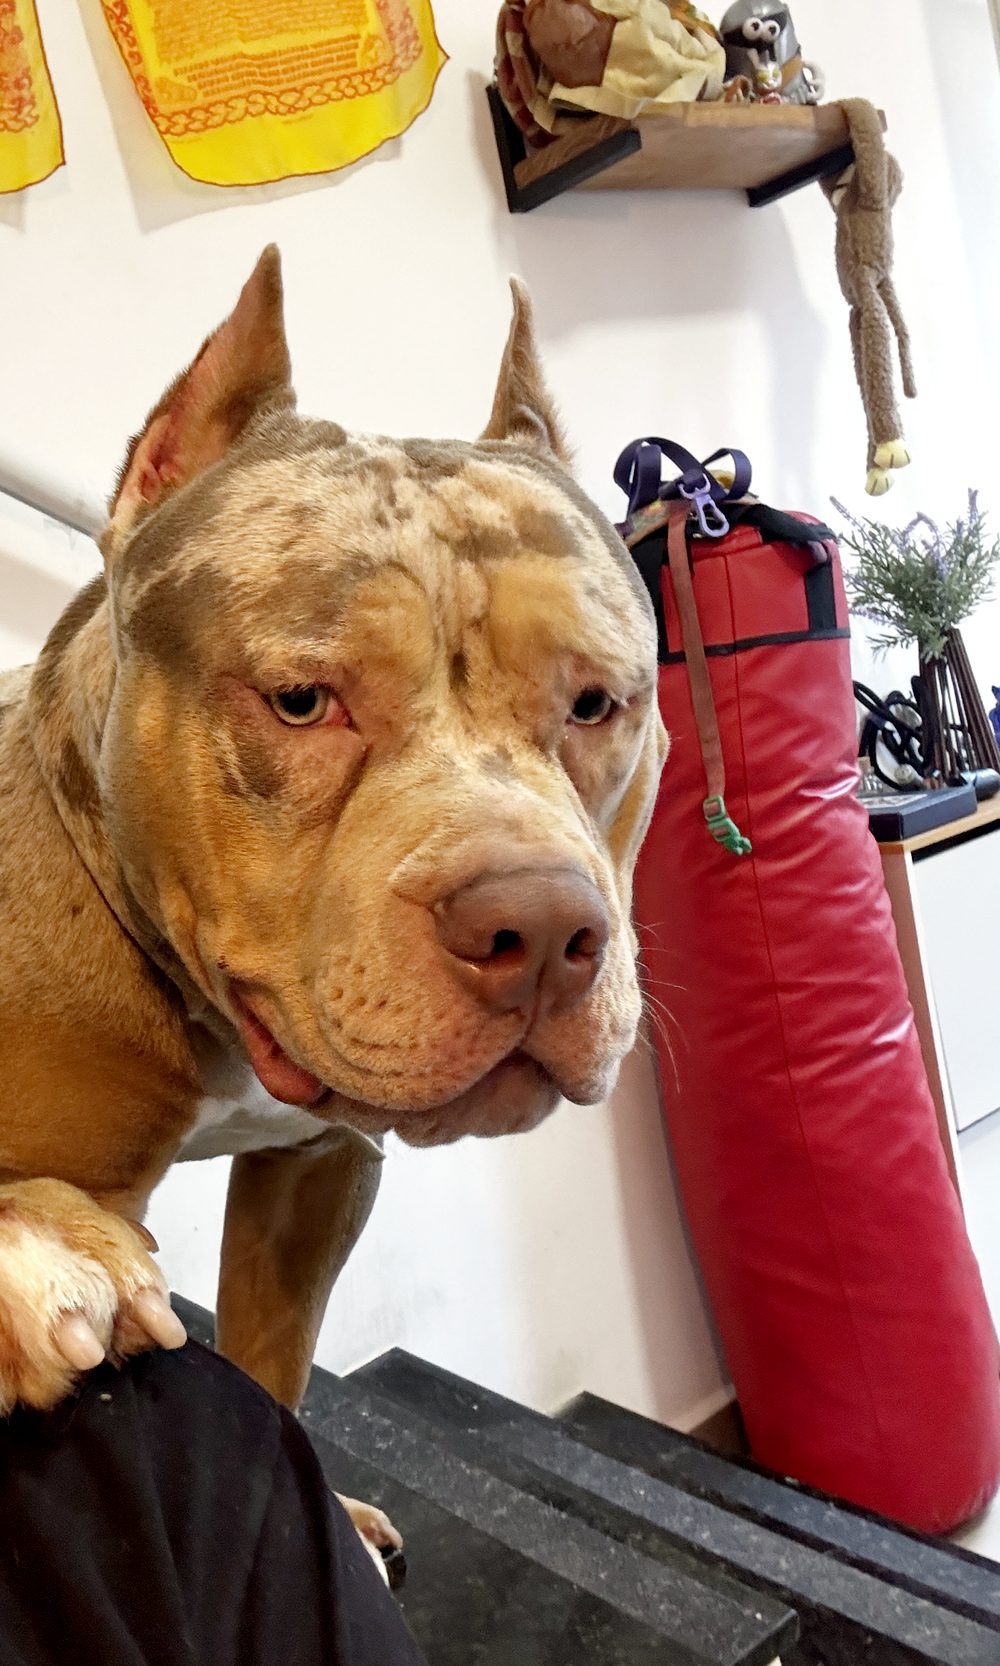
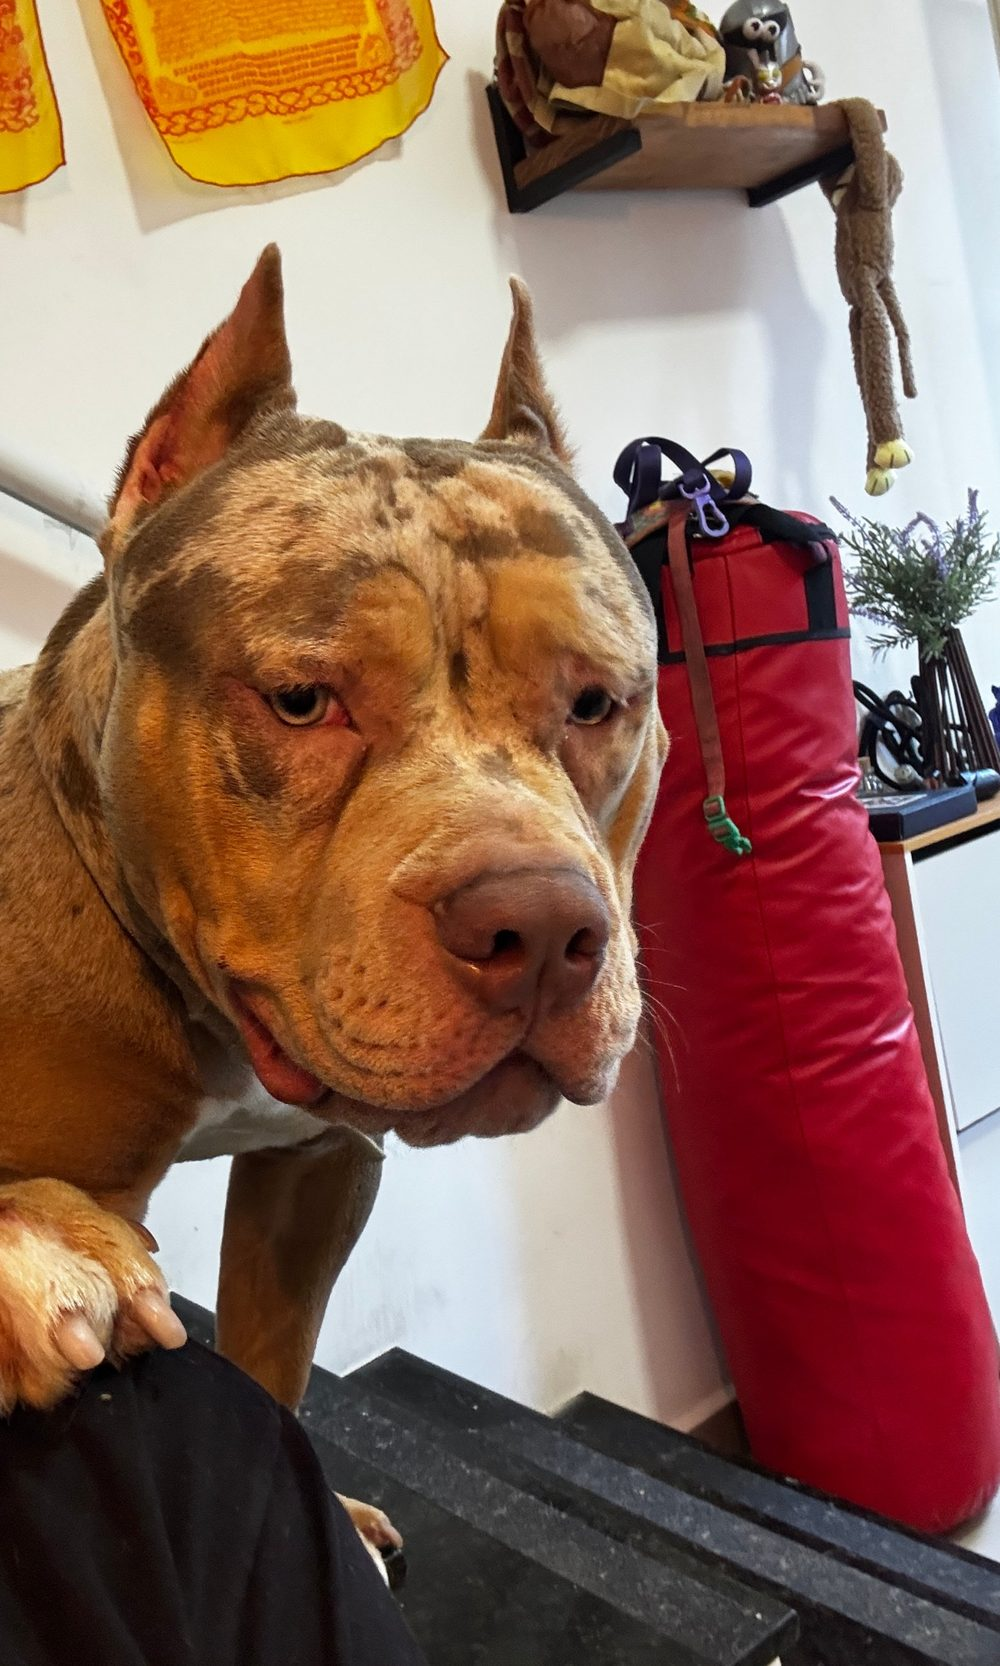
Landing: fotos do carrossel com o ajuste da Elis
Claude-Session: https://claude.ai/code/session_019fawiRXe4d9o1vbSG3281y

diff --git a/landing/index.html b/landing/index.html
@@ -147,7 +147,7 @@ details p { margin-top: 8px; }
 
 <main id="topo">
   <section class="wrap stack" aria-labelledby="t-hero" style="padding-top: 20px">
-    <figure class="foto hero"><img src="fotos/odin-agora.jpg" alt="O Odin dormindo na caminha em casa, em novembro, bem mais magro" width="1400" height="788" style="object-position: 0% 55%" fetchpriority="high"></figure>
+    <figure class="foto hero"><img src="fotos/odin-agora.jpg?v=2" alt="O Odin dormindo na caminha em casa, em novembro, bem mais magro" width="1400" height="788" style="object-position: 0% 55%" fetchpriority="high"></figure>
     <h1 id="t-hero">Esse é o Odin.</h1>
     <p style="font-size: 19px">Ele tem 1 ano, está enfrentando a cinomose e tem uma família inteira se revezando pra cuidar dele.</p>
     <a class="btn" href="#historia">Conhecer a história</a>
@@ -163,9 +163,9 @@ details p { margin-top: 8px; }
         <p>O Odin é um American Bully de um ano. Vacinado em dia, cheio de energia, do tipo que derruba a gente na porta.</p>
         <div class="carrossel" role="region" aria-roledescription="carrossel" aria-label="Fotos do Odin antes da cinomose">
           <div class="trilho" id="trilho" tabindex="0">
-            <figure class="slide"><img src="fotos/odin-praia.jpg" alt="O Odin de coleira na areia da praia, olhando o mar, com o Pão de Açúcar ao fundo" width="1000" height="1482" loading="lazy"><figcaption>Passeio na praia, com o Pão de Açúcar ao fundo.</figcaption></figure>
-            <figure class="slide"><img src="fotos/odin-olhar.jpg" alt="O Odin de perto, com a pata apoiada no ombro de alguém, olhando pra câmera" width="1000" height="1666" loading="lazy" style="object-position: 50% 40%"><figcaption>De olho em tudo, sempre por perto.</figcaption></figure>
-            <figure class="slide"><img src="fotos/odin-pata.jpg" alt="O Odin deitado no sofá, olhando pra câmera, com uma mão segurando a pata dele" width="1000" height="1333" loading="lazy"><figcaption>Pata dada, do jeito que ele gosta.</figcaption></figure>
+            <figure class="slide"><img src="fotos/odin-praia.jpg?v=3" alt="O Odin de coleira na areia da praia, olhando o mar, com o Pão de Açúcar ao fundo" width="1000" height="1482" loading="lazy"><figcaption>Passeio na praia, com o Pão de Açúcar ao fundo.</figcaption></figure>
+            <figure class="slide"><img src="fotos/odin-olhar.jpg?v=3" alt="O Odin de perto, com a pata apoiada no ombro de alguém, olhando pra câmera" width="1000" height="1666" loading="lazy" style="object-position: 50% 40%"><figcaption>De olho em tudo, sempre por perto.</figcaption></figure>
+            <figure class="slide"><img src="fotos/odin-pata.jpg?v=3" alt="O Odin deitado no sofá, olhando pra câmera, com uma mão segurando a pata dele" width="1000" height="1333" loading="lazy"><figcaption>Pata dada, do jeito que ele gosta.</figcaption></figure>
           </div>
           <div class="ctrl">
             <button type="button" class="seta" id="ant" aria-label="Foto anterior"><svg aria-hidden="true" width="20" height="20" viewBox="0 0 24 24" fill="none" stroke="currentColor" stroke-width="2.2" stroke-linecap="round" stroke-linejoin="round"><path d="M15 5l-7 7 7 7"/></svg></button>
@@ -179,7 +179,7 @@ details p { margin-top: 8px; }
         <span class="num">2</span>
         <h3>A cinomose</h3>
         <p>Em setembro, o Odin pegou cinomose, mesmo vacinado. Começou com uma tosse e, duas semanas depois, vieram as convulsões. A doença foi pro sistema nervoso e ele parou de andar.</p>
-        <figure class="foto meia"><img src="fotos/odin-cinomose.jpg" alt="O Odin dormindo no colo, entre uma internação e outra" width="360" height="480" loading="lazy"></figure>
+        <figure class="foto meia"><img src="fotos/odin-cinomose.jpg?v=2" alt="O Odin dormindo no colo, entre uma internação e outra" width="360" height="480" loading="lazy"></figure>
       </article>
       <article class="passo">
         <span class="num">3</span>
@@ -201,7 +201,7 @@ details p { margin-top: 8px; }
         <span class="num">5</span>
         <h3>Da planilha pro app</h3>
         <p>Eu sou engenheira de software. Comecei com uma planilha e virou um app: ele avisa a hora de cada coisa, mostra quem fez o quê, lê os laudos e transforma em gráfico. Hoje a gente cuida do Odin com ele. <span class="colchete">[Uma linha sobre como ele está hoje.]</span></p>
-        <figure class="foto meia"><img src="fotos/odin-hoje.jpg" alt="O Odin deitado na caminha, tomando sol, em novembro" width="900" height="1200" loading="lazy"></figure>
+        <figure class="foto meia"><img src="fotos/odin-hoje.jpg?v=2" alt="O Odin deitado na caminha, tomando sol, em novembro" width="900" height="1200" loading="lazy"></figure>
         <p class="legenda">Tomando sol em casa, 20 de novembro.</p>
       </article>
       <article class="passo">
